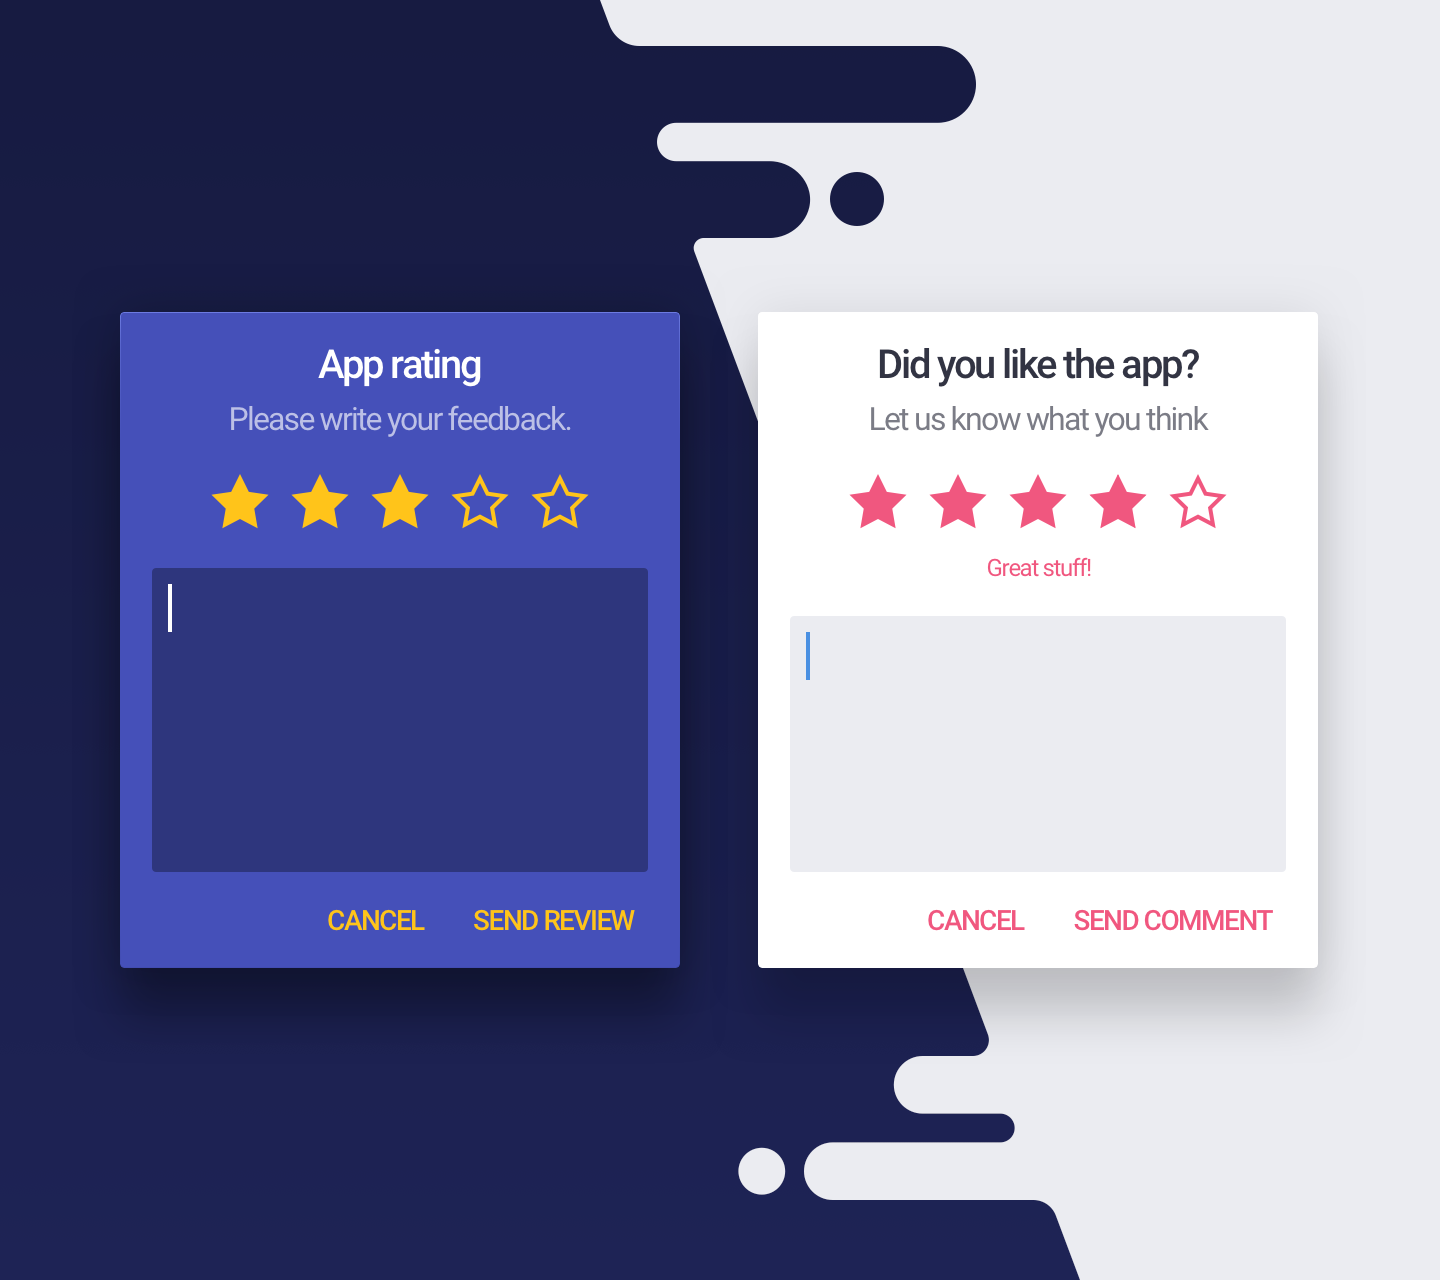
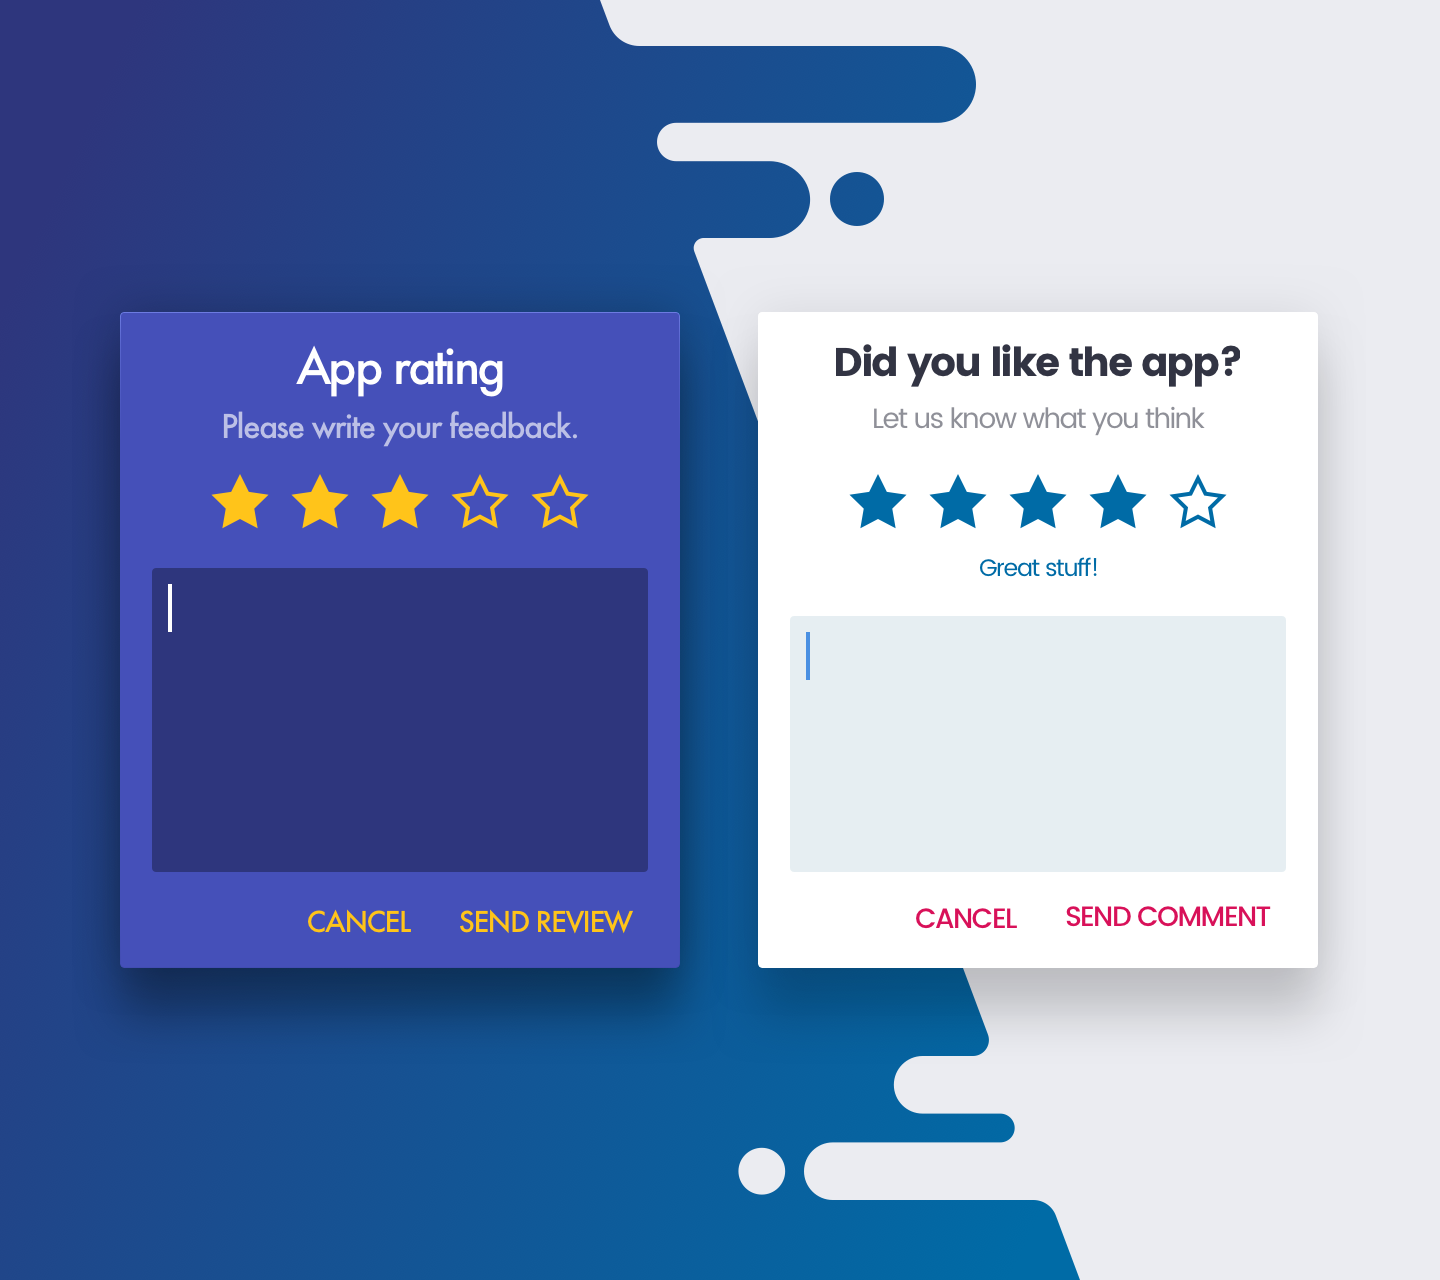
prepared for release 2.1.0, updated screens

diff --git a/CHANGELOG.md b/CHANGELOG.md
@@ -4,6 +4,20 @@ All notable changes to this project will be documented in this file.
 The format is based on [Keep a Changelog](http://keepachangelog.com/en/1.0.0/)
 and this project adheres to [Semantic Versioning](http://semver.org/spec/v2.0.0.html).
 
+
+## [2.1.0]
+### Added
+- support for custom styles for title, description, note texts, comments
+- custom star color
+- "Later" button
+
+### Changed
+- **Breaking change:** Added "onNeutralButtonClicked" method to listener
+
+[2.1.0]: https://github.com/stepstone-tech/android-material-app-rating/compare/v2.0.0...v2.1.0
+
+
+
 ## [2.0.0]
 ### Added
 - support for custom hint text and color in comment box

diff --git a/README.md b/README.md
@@ -10,7 +10,7 @@ This library allows to use customized Rating Dialog inside applications.
 
 ## Download
 ```groovy
-compile 'com.stepstone.apprating:app-rating:2.0.0'
+compile 'com.stepstone.apprating:app-rating:2.1.0'
 ```
 
 ## Supported features
